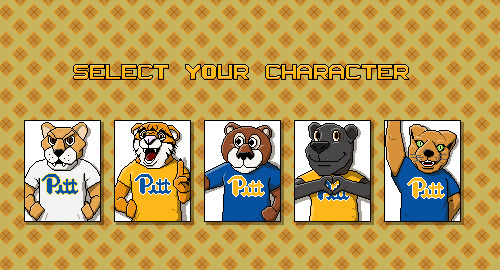
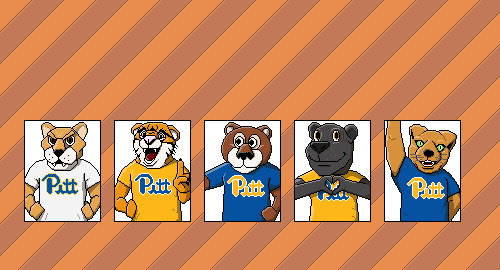
Update character select some more

diff --git a/src/scenes/select.ts b/src/scenes/select.ts
@@ -1,7 +1,7 @@
 
 import * as ex from 'excalibur';
 import { playerSheets, Resources } from '../resources';
-// import { drawText } from '../utils/helpers';
+import { drawText } from '../utils/helpers';
 import { scoreProvider } from '../utils/scoreprovider';
 import { randomBetween } from '../utils/helpers';
 
@@ -11,7 +11,6 @@ class StartScene extends ex.Scene {
   public playerSkin: ex.SpriteSheet;
 
   onInitialize(engine: ex.Engine) {
-    //drawText({scene: this, text: 'Choose your Character!', pos: ex.vec(engine.drawWidth/2, 70), color: ex.Color.White, scale: 1.5})
     this.gradient = new ex.Actor({
       pos: ex.vec(250, 135),
       width: 500,
@@ -30,6 +29,7 @@ class StartScene extends ex.Scene {
     this.background.graphics.use(Resources.ui.characterSelect.toSprite());
     this.add(this.background);
     this.drawSelectOptions(playerSheets, engine);
+    drawText({scene: this, text: 'Choose your Character!', pos: ex.vec(engine.drawWidth/2, 70), color: ex.Color.White, scale: 1.5})
   }
 
   onActivate(_context: ex.SceneActivationContext<unknown>): void {
@@ -68,9 +68,14 @@ class StartScene extends ex.Scene {
     let buttonActor = new ex.Actor({
         pos,
         width,
-        height
+        height,
+        color: ex.Color.Transparent
     })
     buttonActor.on('pointerdown', () => this.beginGameWithSkin(skin, engine))
+    buttonActor.on('pointerenter', () => {
+      buttonActor.color = new ex.Color(255, 255, 255, 0.25);
+    });
+    buttonActor.on('pointerleave', () => buttonActor.color = ex.Color.Transparent);
     this.add(buttonActor)
   }
 
